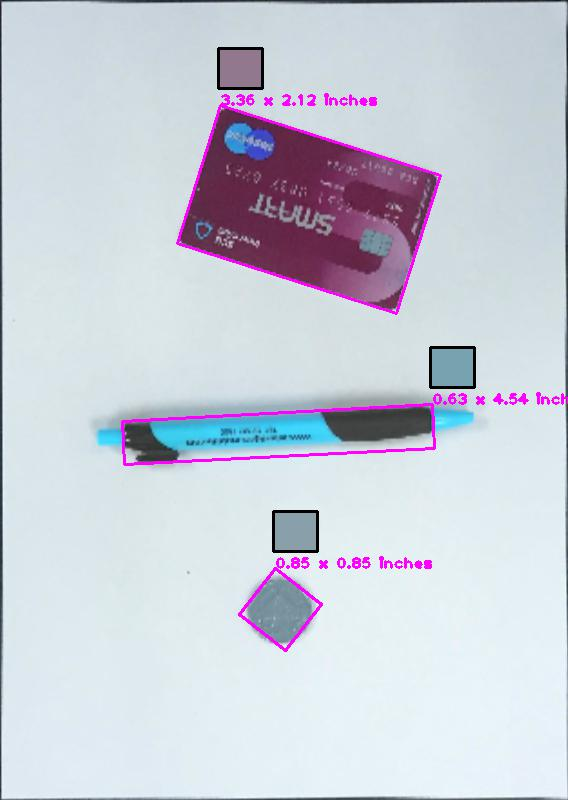
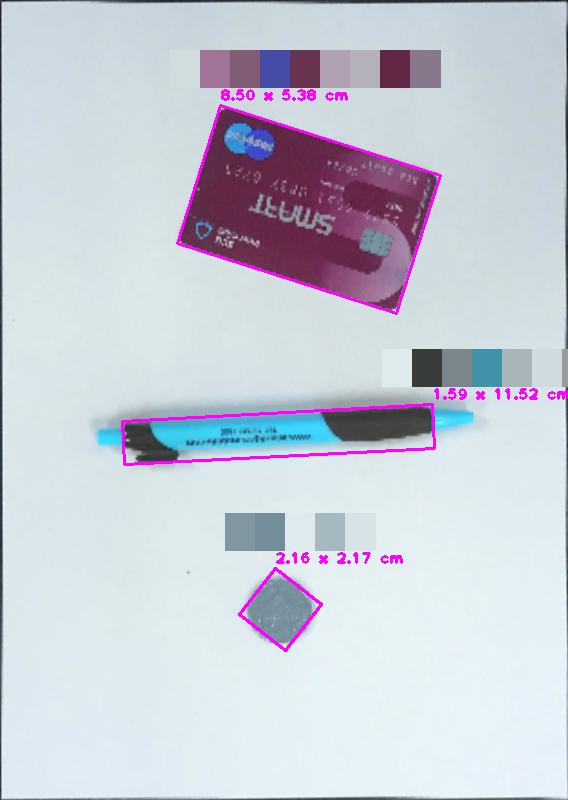
Add Color Extraction

Changed region(s): [[0.3292, 0.0312, 0.7782, 0.1562], [0.7183, 0.4062, 1.0, 0.5312], [0.3891, 0.625, 0.7782, 0.7188]]

diff --git a/Measuring_size.py b/Measuring_size.py
@@ -3,30 +3,10 @@ from numpy import linalg as LA
 import cv2
 import math
 import rect
+import colorExtraction
 from cv2 import *
-import scipy.misc
-from PIL import Image
 
 # initialize the camera
-
-# cam = cv2.VideoCapture(0)  # 0 -> index of camera
-# while(True):
-#     # Capture frame-by-frame
-#     s, img = cam.read()
-#     cv2.imshow('frame', img)
-#     if cv2.waitKey(1) & 0xFF == ord(' '):
-#         imwrite("filename.jpg", img)
-#         break
-# # s, img = cam.read()
-# # if s:  # frame captured without any errorss
-# #     namedWindow("cam-test", True)
-# #     imshow("cam-test", img)
-# #     waitKey(0)
-# #     destroyWindow("cam-test")
-# #     imwrite("filename.jpg", img)  # save image
-#
-# cam.release()
-# cv2.destroyAllWindows()
 
 while True:
     try:
@@ -36,8 +16,6 @@ while True:
         print("Not a number")
 
 image = cv2.imread('img/' + str(num) + '.jpg')
-# image = cv2.imread('filename.jpg')
-# print(image.shape)
 image = cv2.resize(image, (800, 469))
 orig = image.copy()
 cv2.imshow("orig.jpg", orig)
@@ -47,17 +25,14 @@ cv2.destroyAllWindows()
 # convert to grayscale and blur to smooth
 gray = cv2.cvtColor(image, cv2.COLOR_BGR2GRAY)
 blurred = cv2.GaussianBlur(gray, (7, 7), 0)
-# blurred = cv2.medianBlur(gray, 5)
 
 # apply Canny Edge Detection
 edged = cv2.Canny(blurred, 0, 50)
-orig_edged = edged.copy()
 edged = cv2.dilate(edged, None, iterations=1)
-# cv2.imshow("edge.jpg", edged)
 
 # find the contours in the edged image, keeping only the
 # largest ones, and initialize the screen contour
-im2, contours, hierarchy = cv2.findContours(edged, cv2.RETR_LIST, cv2.CHAIN_APPROX_NONE)
+_, contours, hierarchy = cv2.findContours(edged, cv2.RETR_LIST, cv2.CHAIN_APPROX_NONE)
 contours = sorted(contours, key=cv2.contourArea, reverse=True)
 
 # get approximate contour
@@ -66,12 +41,17 @@ for c in contours:
     p = cv2.arcLength(c, True)
     approx = cv2.approxPolyDP(c, 0.02 * p, True)
     # areaContour2 = cv2.contourArea(c)
-    if len(approx) == 4:
+    if len(approx) == 4 and cv2.contourArea(c)/(800 * 469) > 0.1:
         # print(str(areaContour2))
         target = approx
+        print(cv2.contourArea(c))
+        print(800*469)
+        print(cv2.contourArea(c)/(800 * 469))
         break
 
-# mapping target points to 800x800 quadrilateral
+# mapping target point
+# ts to 800x800 quadrilateral3
+
 # scale A4 is 0.709402 (567.5214x800)
 if target is None:
     print("Marker can not be detected")
@@ -94,39 +74,18 @@ else:
 
     tophatKenel = cv2.getStructuringElement(cv2.MORPH_RECT, (40, 40))
     tophat = cv2.morphologyEx(dst, cv2.MORPH_TOPHAT, tophatKenel)
-    # print(np.std(tophat))
-    # print(np.min(tophat))
-    # print(np.max(tophat))
-    # print(np.mean(tophat))
+
+    # using thresholding on warped image to get scanned effect
     minThd = math.floor(8 + np.std(tophat))
-    ret2, that = cv2.threshold(tophat, minThd, 255, cv2.THRESH_BINARY_INV)
-    cv2.imshow("tophat.jpg", tophat)
-    cv2.imshow("that.jpg", that)
-    # dsthsv = cv2.cvtColor(realDst, cv2.COLOR_BGR2HSV)
-    # clahe = cv2.createCLAHE(clipLimit=4.0, tileGridSize=(8, 8))
-    # cl1 = clahe.apply(dst)
+    _, th_tophat = cv2.threshold(tophat, minThd, 255, cv2.THRESH_BINARY_INV)
+    _, thOtsu = cv2.threshold(dst, 0, 255, cv2.THRESH_OTSU)
 
-    orig_edged = edged.copy()
-    # cv2.imshow("dsthsv.jpg", dsthsv)
-
-    # using thresholding on warped image to get scanned effect (If Required)
-    ret2, th4 = cv2.threshold(dst, 0, 255, cv2.THRESH_BINARY + cv2.THRESH_OTSU)
-
-    cv2.imshow("Outline.jpg", image)
-    cv2.imshow("Otsu's.jpg", th4)
-    # cv2.imshow("dst.jpg", dst)
-
-    edged = th4.copy()
     ellipseKenel = cv2.getStructuringElement(cv2.MORPH_ELLIPSE, (5, 5))
-    detect = cv2.bitwise_not(that) + cv2.bitwise_not(edged)
-    imagem = cv2.morphologyEx(detect, cv2.MORPH_OPEN, ellipseKenel)
-    # th5 = cv2.morphologyEx(edged, cv2.MORPH_OPEN, ellipseKenel)
-    # imagem = cv2.bitwise_not(th5)
+    th_final = cv2.bitwise_not(th_tophat) + cv2.bitwise_not(thOtsu)
+    imagem = cv2.morphologyEx(th_final, cv2.MORPH_OPEN, ellipseKenel)
     imagem = cv2.erode(imagem, None, iterations=1)
-    cv2.imshow("detect.jpg", imagem)
 
     _, contours, hierarchy = cv2.findContours(imagem, cv2.RETR_TREE, cv2.CHAIN_APPROX_NONE)
-    # contours = sorted(contours, key=cv2.contourArea, reverse=True)
     check_detect = 0
     idcontour = 0
     for c in contours:
@@ -138,25 +97,29 @@ else:
                 x != 0 and y != 0 and (x + w - 1) != 567 and (y + h - 1) != 799) and aspectAre > 0.005 \
                 and hierarchy[0][idcontour][3] == -1:
             roi = realDst[y:y + h, x:x + w]
-            b, g, r, _ = np.uint8(cv2.mean(roi))
-            # cv2.imshow("roi.jpg", roi)
-            # print(aspectAre)
-            # print(hierarchy[0][idcontour])
+            color_set = colorExtraction.clustering(roi)
             rect = cv2.minAreaRect(c)
             box = cv2.boxPoints(rect)
             box = np.int0(box)
-            cv2.drawContours(realDst, [box], 0, (255, 0, 255), 2)
             w = LA.norm(box[0] - box[1])
             h = LA.norm(box[0] - box[3])
-            realW = w * (8.3 / 568)
-            realH = h * (11.7 / 800)
-            cv2.rectangle(realDst, (box[2][0], box[2][1] - 55), (box[2][0] + 40, box[2][1] - 18),
-                          (int(b), int(g), int(r)), -1)
-            cv2.rectangle(realDst, (box[2][0] - 2, box[2][1] - 57), (box[2][0] + 42, box[2][1] - 17), (0, 0, 0), 2)
+            realW = w * (21.0 / 568)
+            realH = h * (29.7 / 800)
+
+            # Color Extaction
+            for k in range(0, len(color_set)):
+                colorTmp = roi.copy()
+                b, g, r = color_set[k]
+
+                cv2.rectangle(realDst,  (box[2][0] + (30*k)-50, box[2][1] - 55),\
+                              (box[2][0] + 30 + (30*k)-50, box[2][1] - 18), \
+                              (int(round(b)), int(round(g)), int(round(r))), -1)
+
+            cv2.drawContours(realDst, [box], 0, (255, 0, 255), 2)
             cv2.putText(realDst, \
                         str("{0:.2f}".format(round(realW, 2))) + " x " + str(
-                            "{0:.2f}".format(round(realH, 2))) + " inches", \
-                        (box[2][0], box[2][1]), cv2.FONT_HERSHEY_PLAIN, 1, (255, 0, 255), 2)
+                            "{0:.2f}".format(round(realH, 2))) + " cm", \
+                        (box[2][0], box[2][1]-5), cv2.FONT_HERSHEY_PLAIN, 1, (255, 0, 255), 2)
             check_detect = 1
         idcontour = idcontour + 1
 
@@ -166,13 +129,6 @@ else:
 
     cv2.imshow("output.jpg", realDst)
 
-    M_new = cv2.getPerspectiveTransform(pts2, approx)
-    dst2 = cv2.warpPerspective(realDst, M_new, (800, 469))
-    # cv2.imshow("test.jpg", dst2)
-    scipy.misc.imsave('outfile.jpg', realDst)
-
-    I = cv2.cvtColor(realDst, cv2.COLOR_BGR2RGB)
-    im = Image.fromarray(I)
-    im.save("your_file.png")
+    cv2.imwrite("pic_result.jpg", realDst)
     cv2.waitKey(0)
     cv2.destroyAllWindows()

diff --git a/rect.py b/rect.py
@@ -3,51 +3,19 @@ import numpy as np
 
 def rectify(h):
     h = h.reshape((4, 2))
-    hnew = np.zeros((4, 2), dtype=np.float32)
-    # add = h.sum(1)
-    # id_top_left = np.argmin(add)
-    # id_bottom_right = np.argmax(add)
-    # hnew[0] = h[id_top_left]
-    # hnew[2] = h[id_bottom_right]
-    #
-    # diff = np.diff(h, axis=1)
-    # diff[id_top_left] = 999
-    # diff[id_bottom_right] = 999
-    # id_top_right = np.argmin(diff)
-    # hnew[1] = h[id_top_right]
-    #
-    # diff[id_top_left] = -999
-    # diff[id_bottom_right] = -999
-    # id_bottom_left = np.argmax(diff)
-    # hnew[3] = h[id_bottom_left]
-    # print(hnew)
-    hnew2 = hnew.copy()
-    # print("top_left" + str(hnew[0]))
-    # print("bottom_right" + str(hnew[2]))
-    # print("top_right" + str(hnew[1]))
-    # print("bottom_left" + str(hnew[3]))
-
+    h_new = np.zeros((4, 2), dtype=np.float32)
     hnewCompare = sorted(h, key=lambda x: x[1])
     if hnewCompare[0][0] < hnewCompare[1][0]:
-        # print("top_left" + str(hnewCompare[0]))
-        # print("top_right" + str(hnewCompare[1]))
-        hnew2[0] = hnewCompare[0]
-        hnew2[1] = hnewCompare[1]
+        h_new[0] = hnewCompare[0]
+        h_new[1] = hnewCompare[1]
     else:
-        # print("top_left" + str(hnewCompare[1]))
-        # print("top_right" + str(hnewCompare[0]))
-        hnew2[0] = hnewCompare[1]
-        hnew2[1] = hnewCompare[0]
+        h_new[0] = hnewCompare[1]
+        h_new[1] = hnewCompare[0]
 
     if hnewCompare[2][0] < hnewCompare[3][0]:
-        # print("bottom_left" + str(hnewCompare[2]))
-        # print("bottom_right" + str(hnewCompare[3]))
-        hnew2[3] = hnewCompare[2]
-        hnew2[2] = hnewCompare[3]
+        h_new[3] = hnewCompare[2]
+        h_new[2] = hnewCompare[3]
     else:
-        # print("bottom_left" + str(hnewCompare[3]))
-        # print("bottom_right" + str(hnewCompare[2]))
-        hnew2[3] = hnewCompare[3]
-        hnew2[2] = hnewCompare[2]
-    # print(hnew2)
-    return hnew2
+        h_new[3] = hnewCompare[3]
+        h_new[2] = hnewCompare[2]
+    return h_new

diff --git a/binary_tree.py b/binary_tree.py
@@ -1,0 +1,54 @@
+class Node:
+
+    def __init__(self, data, parent, class_obj, level):
+
+        self.left = None
+        self.right = None
+        self.data = data
+        self.parent = parent
+        self.class_obj = class_obj
+        self.level = level
+
+    def insert(self, data):
+        # Compare the new value with the parent node
+        if self.data:
+            if data < self.data:
+                if self.left is None:
+                    self.left = Node(data, self.data, "left", self.level+1)
+                else:
+                    self.left.insert(data)
+            elif data > self.data:
+                if self.right is None:
+                    self.right = Node(data, self.data, "right", self.level+1)
+                else:
+                    self.right.insert(data)
+        else:
+            self.data = data
+
+    # Print the tree
+    def PrintTree(self):
+        if self.left:
+            self.left.PrintTree()
+        print(self.data, " Parent:", self.parent, "  class:", self.class_obj, " Level:", self.level),
+        if self.right:
+            self.right.PrintTree()
+
+
+# Use the insert method to add nodes
+root = Node(8, -1, "root", 0)
+root.insert(4)
+root.insert(12)
+root.insert(2)
+root.insert(6)
+root.insert(10)
+root.insert(14)
+root.insert(1)
+root.insert(3)
+root.insert(5)
+root.insert(7)
+root.insert(9)
+root.insert(11)
+root.insert(13)
+root.insert(15)
+root.insert(0)
+root.PrintTree()

diff --git a/colorExtraction.py b/colorExtraction.py
@@ -1,0 +1,32 @@
+import numpy as np
+from numpy import linalg as LA
+from cv2 import *
+
+
+def clustering(obj):
+    height, width, _ = obj.shape
+    class_color = 0
+
+    color_set = list()
+    for i in range(0, 20):
+        for j in range(0, 20):
+            roi = obj[0 + (round(height * 0.05) * i):(round(height * 0.05) + (round(height * 0.05) * i)) \
+                , 0 + (round(width * 0.05) * j):(round(width * 0.05)) + (round(width * 0.05) * j)]
+            b, g, r, _ = np.uint8(cv2.mean(roi))
+            if class_color == 0:
+                color_set.append([b, g, r])
+                class_color = class_color + 1
+                continue
+            check_class = 0
+            for k in range(0, len(color_set)):
+                norm_color = LA.norm(np.asarray(color_set[k]) - [int(b), int(g), int(r)])
+                if norm_color < 50:
+                    tmp = (np.asarray(color_set[k]) + [int(b), int(g), int(r)]) / 2
+                    color_set[k] = list(tmp)
+                    check_class = 1
+                    break
+
+            if check_class == 0:
+                color_set.append([b, g, r])
+
+    return color_set
